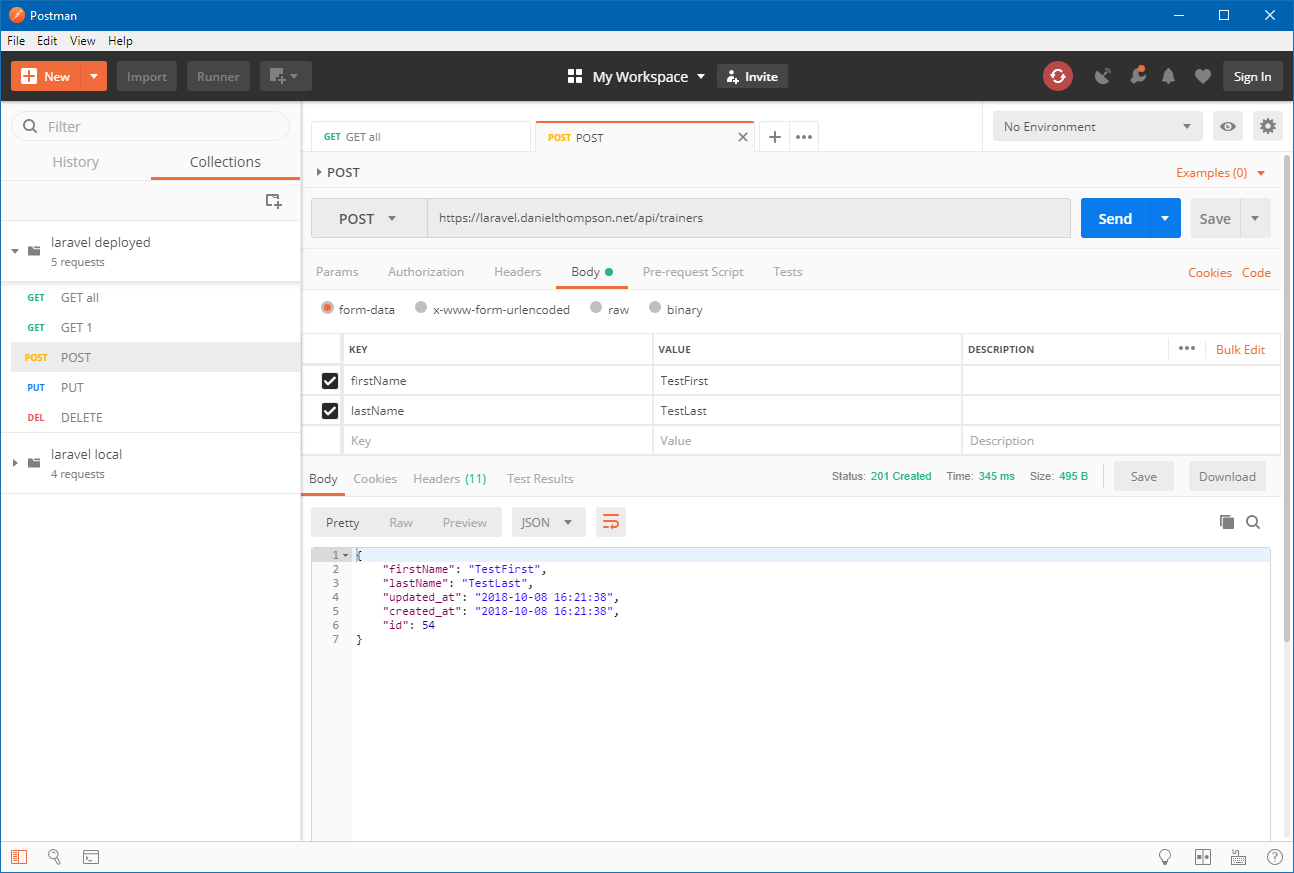
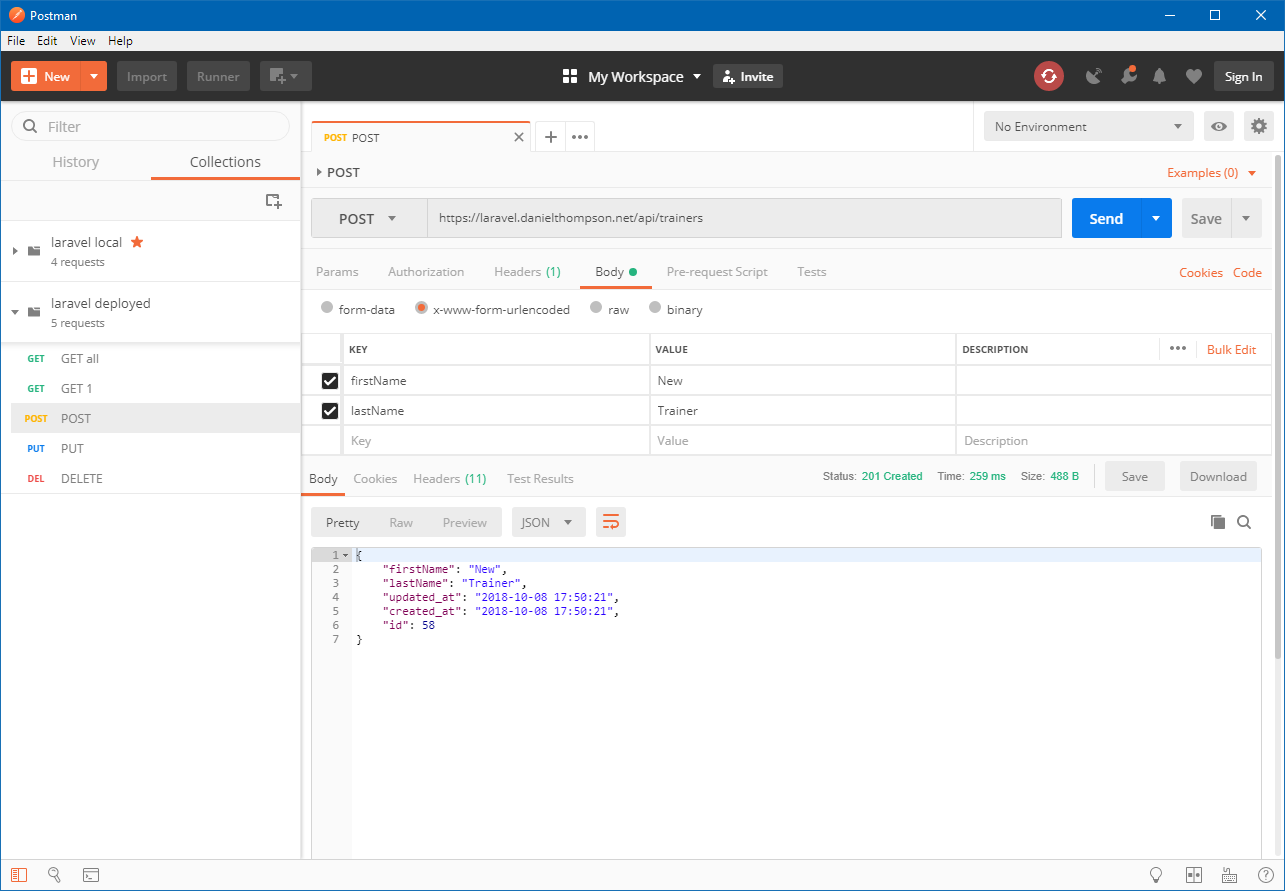
Updated readme with additional screenshots

diff --git a/README.md b/README.md
@@ -8,10 +8,22 @@ See the CI process and unit tests at [Travis CI](https://travis-ci.org/danieltho
 
 Point your favorite client at [the API](https://laravel.danielthompson.net/api/trainers). I recommend [Postman](https://www.getpostman.com/).
 
-The following verbs are supported: `GET`, `PUT`, `POST`, `DELETE`. 
+The following verbs are supported: 
 
-Examples:
+`GET`
+
+![GET](postman-get-all.png)
 
 ![GET](postman-get.png)
 
+`PUT` 
+
+![PUT](postman-put.png)
+
+`POST`
+
 ![POST](postman-post.png)
+
+`DELETE`
+
+![DELETE](postman-delete.png)
